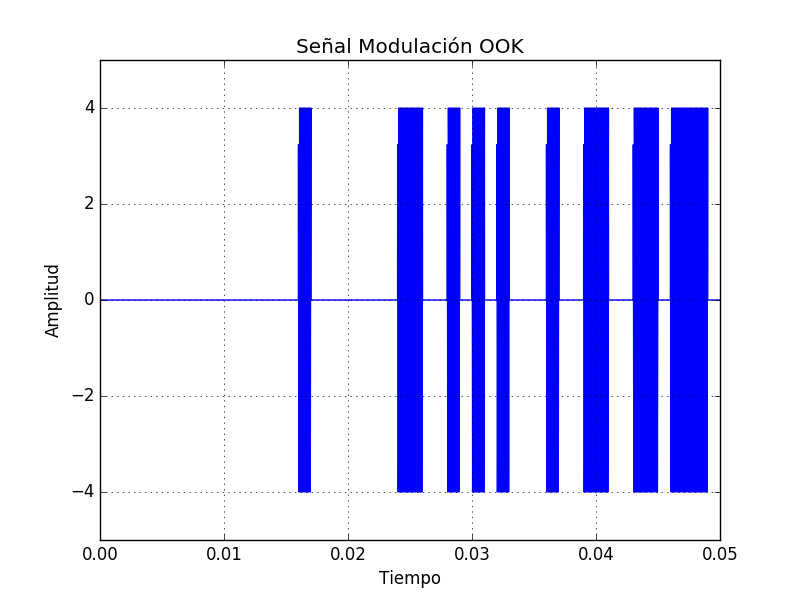
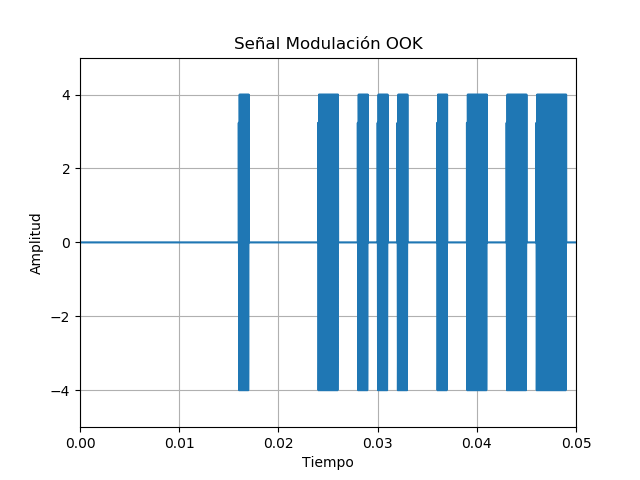
Menu

diff --git a/lab4.py b/lab4.py
@@ -73,11 +73,21 @@ def digitalGraph(signalBin, title, figura):
 	savefig(figura)
 	plt.show()
 
+def modulatedGraph(time2,modulated):
+	#Aquí se comienza a graficar la señal modulada
+	plt.ylim(-5,5)
+	plt.xlim(0, 0.05)
+	plt.xlabel("Tiempo")
+	plt.ylabel("Amplitud")
+	plt.title("Señal Modulación OOK")
+	plt.grid(True)
+	plt.plot(time2[:10000],modulated[:10000])
+	savefig("modulacion_OOK")
+	plt.show()
+
 def OOKModulation(signalBin):
 
-	print("2.- Comenzando la modulación OOK, espere un momento...")
-	print("\tLa señal tiene ", len(signalBin), "bits")
-	print("\tSe ha escogido un bit rate de 100 bits por segundo\n")
+	
 	A = 4
 	bp = 0.001  #Periodo de bit
 	br = 1/bp   #Bit rate
@@ -92,22 +102,10 @@ def OOKModulation(signalBin):
 		else:
 			modulated = np.concatenate((modulated,0*cos(2*pi*f*time)))
 	time2 = np.arange(bp/100,bp*count + bp/100, bp/100)
-	
-	#Aquí se comienza a graficar la señal modulada
-	plt.ylim(-5,5)
-	plt.xlim(0, 0.05)
-	plt.xlabel("Tiempo")
-	plt.ylabel("Amplitud")
-	plt.title("Señal Modulación OOK")
-	plt.grid(True)
-	plt.plot(time2[:10000],modulated[:10000])
-	savefig("modulacion_OOK")
-	plt.show()
-	return modulated, time, f
+	return modulated, time, f,time2
 
 def OOKdemodulation(signalModulated,time, f):
 
-	print("3.- Comenzando demodulación, espere un momento...\n")
 	demodulated = []
 	bp = 0.001
 	len_modulated = len(signalModulated)
@@ -129,18 +127,40 @@ def OOKdemodulation(signalModulated,time, f):
 
 
 
-print("******Inicio del programa******")
-y_signal, rate_signal, time_signal = getData("handel.wav")
-binarySignal = getArrayBin(y_signal)
+
+
+def printMenu():
+	print("		Menu\n")
+	print("1) Mostrar Señal Digital Original")
+	print("2) Mostrar Señal Digital Modulada")
+	print("3) Mostrar Señal Digital Demodulada")
+	print("4) Salir\n\n")
+
+#BLOQUE PRINCIPAL
 
 # Para temas de visualización y tiempo de ejecución
 # se decide mostrar solo 5000 datos, ya que si quisiera 
 # mostrar todos los datos tomaría mucho tiempo.
-print("1.- Digitalizando la señal, espero un momento...\n")
-digitalGraph(binarySignal[:10000],"Señal Original","senal_original")
-modulated, time, f = OOKModulation(binarySignal)
-demodulated = OOKdemodulation(modulated,time,f)
-print("4.- Digitalizando la señal demodulada, espero un momento...\n")
-digitalGraph(demodulated,"Señal al demodular","senal_demodulada")
-print("******Fin del programa******")
 
+print("******Iniciando programa******")
+y_signal, rate_signal, time_signal = getData("handel.wav")
+binarySignal = getArrayBin(y_signal)
+print("1.- Comenzando la modulación OOK, espere un momento...")
+print("\tLa señal tiene ", len(binarySignal), "bits")
+print("\tSe ha escogido un bit rate de 100 bits por segundo\n")
+modulated, time, f,time2 = OOKModulation(binarySignal)
+print("2.- Comenzando demodulación, espere un momento...\n")
+demodulated = OOKdemodulation(modulated,time,f)
+menu = "0"
+printMenu()
+while(True):
+	
+	menu = str(input("Ingrese una opcion: "))
+	if(menu == "1"):
+		digitalGraph(binarySignal[:10000],"Señal Original","senal_original")
+	elif(menu == "2"):
+		modulatedGraph(time2,modulated)
+	elif(menu == "3"):
+		digitalGraph(demodulated,"Señal al demodular","senal_demodulada")
+	elif(menu == "4"):
+		break
